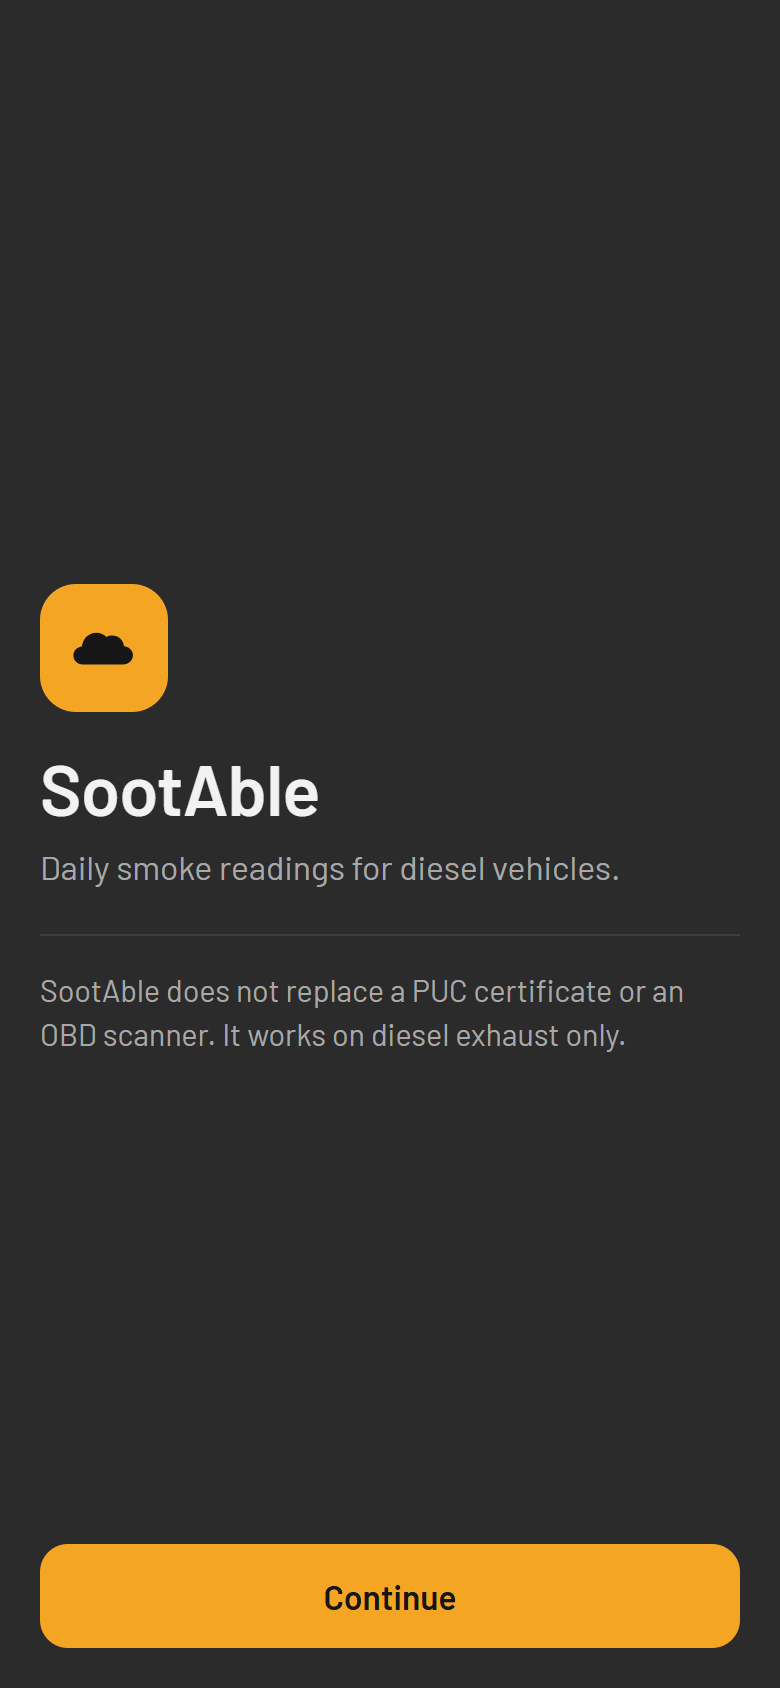
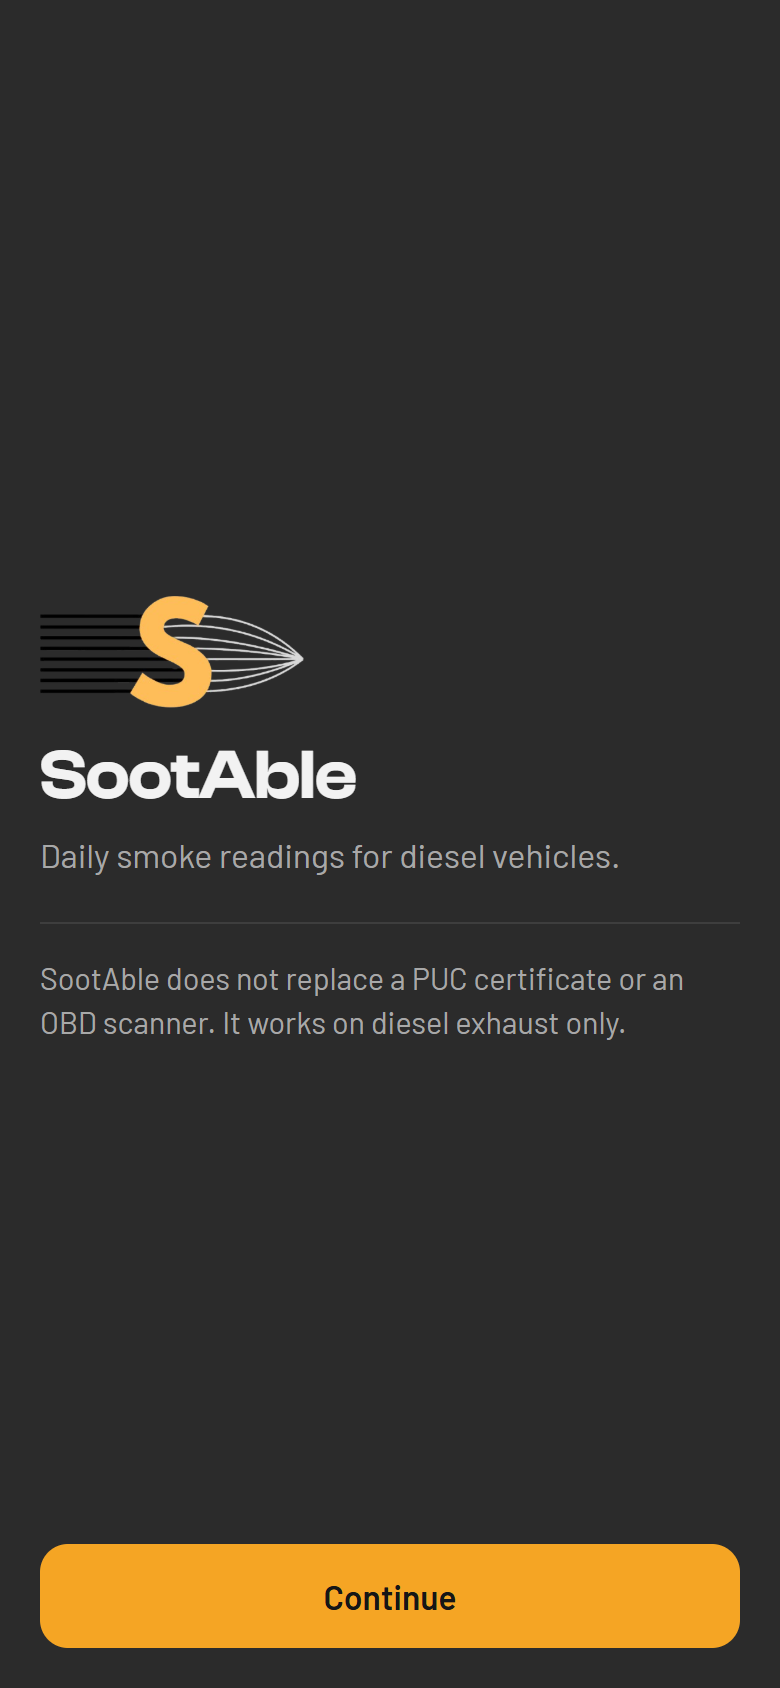
Rewrite README, refresh screenshots, publish hardware demo to GitHub Pages

Changed region(s): [[0.0308, 0.3389, 0.8, 0.5237], [0.0308, 0.5545, 0.8615, 0.6161]]

diff --git a/hardware/index.html b/hardware/index.html
@@ -1,7 +1,7 @@
 <!doctype html><html><head><meta charset=utf8><meta name=viewport content="width=device-width,initial-scale=1,viewport-fit=cover"><style>:root{color-scheme:light;box-sizing:border-box;padding-top:env(safe-area-inset-top,0px);padding-bottom:env(safe-area-inset-bottom,0px)}html{scroll-padding-top:env(safe-area-inset-top,0px)}body{margin:0;padding:0;font:14px -apple-system,BlinkMacSystemFont,sans-serif;background:#fff;color:#000}img{max-width:100%}[hidden]:not([hidden=until-found i]){display:none!important}</style></head><body>
 <title>SootAble Meter - 3D Simulator</title>
 <meta name="claude:viewport-fit-sides" content="cover">
-<link rel="icon" href="/static/favicon.png" type="image/png">
+<link rel="icon" href="favicon.png" type="image/png">
 <link rel="stylesheet" href="https://fonts.googleapis.com/css2?family=Archivo+Narrow:wght@600;700&family=IBM+Plex+Sans:wght@400;500&family=IBM+Plex+Mono:wght@400;500&display=swap">
 <style>
 /* Layout: big 3D viewport of the team's own CAD model, controls and readouts beside it */

diff --git a/README.md b/README.md
@@ -1,73 +1,82 @@
 # SootAble
 
-**A daily smoke reading for your diesel engine, taken automatically.** SootAble is a phone app for a low-cost (about Rs. 500) diesel exhaust
-opacity meter. The meter measures how much infrared light the exhaust absorbs; the app turns that into the smoke level the
-law uses, tracks it day by day, and warns the owner while a worn injector or clogged filter is still a small problem,
-months before the next PUC test.
+SootAble is a phone app for a small diesel exhaust meter (target cost about Rs. 500). Once a day the meter takes a smoke
+reading on its own and sends it to the phone. The app shows the number against the legal limit, keeps up to 1000 days of
+history so slow wear shows up as a trend, and warns the owner while a worn injector or clogged filter is still a small
+repair, months before the next PUC test.
 
-C://hacks 2026 · App & Web Engineering · Advanced · **UN SDG 13: Climate Action**
+Built for C://hacks 2026, App & Web Engineering (Advanced), **UN SDG 13: Climate Action**. Black carbon from badly
+maintained diesel engines is a short-lived climate pollutant, and catching a degrading engine early is one of the cheapest
+ways to cut it.
 
 <p>
-<img src="docs/screenshots/02-vehicle-type.png" width="170" alt="Setup: vehicle type">
-<img src="docs/screenshots/03-find-meter.png" width="170" alt="Pairing: meters in range">
-<img src="docs/screenshots/05-home.png" width="170" alt="Home: reading, scale and metrics">
-<img src="docs/screenshots/06-trend.png" width="170" alt="Outlook and trend">
+<img src="docs/screenshots/04-home.png" width="190" alt="Home screen">
+<img src="docs/screenshots/05-trend.png" width="190" alt="Outlook and trend">
+<img src="docs/screenshots/03-find-meter.png" width="190" alt="Pairing a meter">
+<img src="docs/screenshots/06-history.png" width="190" alt="History">
 </p>
 
-## Run it
+## Try it
 
-Needs Python 3.10 or newer.
+There are two things to look at. They are separate: the app needs Python running, the hardware demo is just a web page.
+
+### 1. The hardware demo (nothing to install)
+
+A 3D model of the meter, built from our CAD design. Drag to orbit, change how much smoke is in the exhaust, and watch the
+infrared sensor reading, opacity and k change, with the phone's view and the ESP32 serial log beside it.
+
+**Live: https://ayushvyk.github.io/C-Hacks/**
+
+You can also open [hardware/index.html](hardware/index.html) straight from a clone, or start the app and go to
+`/hardware/`. The 3D library is bundled in the folder; only the fonts come from the internet.
+
+![Hardware demo](docs/screenshots/07-hardware-demo.png)
+
+### 2. The app
+
+You need Python 3.10 or newer.
 
 ```
+git clone https://github.com/AyushVyk/C-Hacks.git
+cd C-Hacks
 python -m venv .venv
 .venv\Scripts\activate            # macOS / Linux: source .venv/bin/activate
 pip install -r requirements.txt
 python main.py
 ```
 
-Open **http://127.0.0.1:8000**. It is a phone app, so it shows inside a phone frame on a laptop.
+Then open **http://127.0.0.1:8000**. It is a phone app, so on a laptop it sits inside a phone-sized frame.
+
+The first run walks through adding a vehicle and finding its meter. There is no physical meter yet, so the search finds
+three virtual ones; tap **No meter? Use demo data** to load a few months of example readings instead (a healthy engine or
+one that is wearing out). Everything is stored locally in `data/sootable.db`; nothing leaves the machine.
+
 To try it on a real phone on the same Wi-Fi, start it with `SOOTABLE_HOST=0.0.0.0` (PowerShell:
-`$env:SOOTABLE_HOST = "0.0.0.0"`); it prints the address to open, and *Add to Home screen* installs it on Android and
-iPhone. How it would become a store app is in [docs/LAUNCH.md](docs/LAUNCH.md).
+`$env:SOOTABLE_HOST = "0.0.0.0"`), open the address it prints, and use *Add to Home screen*.
 
-**Built with:** Python 3, FastAPI, Uvicorn and SQLite for the logic and storage; plain HTML, CSS and JavaScript for the
-phone UI (no framework, no build step).
+## What the app does
 
-## A two-minute tour
-
-1. **First run.** Vehicle type and name, then **find and connect the vehicle's meter**: the app searches, lists
-   the meters in range, and connects to the one you pick. A vehicle needs its own meter before a reading can be taken, and
-   there is no account. Because no physical meter exists yet, the search finds three demo meters; **No meter? Use demo
-   data** loads months of example readings instead.
-2. **Home.** The smoke level against the legal limit (2.45 m⁻¹) on a ruler scale, four metric tiles (today, 7-day average,
-   highest, change since baseline), an **Outlook** (when the limit would be reached at the current pace), and a trend chart
-   you can touch (30D / 1Y / All) with the within-limit range shaded.
-3. **Readings arrive by themselves.** The meter records one reading a day on its own; the app collects them when it opens, every few minutes while open, and on pull-down. Nobody takes a reading by hand.
-4. **Several vehicles, one meter each.** Tap the vehicle name at the top to add another. Adding a vehicle goes straight to
-   connecting its meter, with the same two choices as the first car: **search over Bluetooth** (the list shows every meter in
-   range and which car it is on; connecting one that is on another car moves it, after syncing what it had stored for that
-   car) or **use demo data** (loads example readings for just that car and leaves the others alone). A vehicle without a
-   meter says so and cannot take readings.
-5. **History, Alerts, Settings.** Alerts only appear when the status changes. Settings shows the vehicle's meter (firmware
-   and sampling chamber, read from the meter's own handshake) and can change or forget it.
-
-**Developer tools (not part of the product).** Open `/#dev`, or tap the version line in Settings five times. They run the
-test scenarios (a 1000-day wear-out, bit errors on the link, a dropped connection, a meter reboot) and show the raw
-Bluetooth bytes as they are decoded.
+- **Home** shows today's smoke level on a ruler scale with the legal limit (2.45 m⁻¹) marked, four small tiles (today,
+  7-day average, highest, change since baseline), an outlook ("projected to reach the limit around ...") and a trend chart.
+- **Readings arrive by themselves.** The meter records once a day. The app collects them when it opens, every few minutes
+  while it is open, and on pull-down. Nobody takes a reading by hand.
+- **Alerts** only appear when the status changes (good, close to limit, over limit), and a single odd reading never raises
+  one.
+- **Several vehicles, one meter each.** Tap the vehicle name at the top to add another; each has its own readings,
+  baseline, alerts and meter.
+- **History and Settings.** Readings by day, CSV export, delete-all, and the connected meter's details.
+- **Works like a phone app.** Installable on Android and iPhone, offline-capable, handles safe areas and the Android back
+  gesture, and remembers where you were after a reload.
+- **Developer tools** (hidden, not part of the product): open `/#dev`, or tap the version line in Settings five times.
+  They run test scenarios such as a 1000-day wear-out or a dropped connection and show the raw Bluetooth bytes.
 
 ## About the hardware
 
-The meter exists as a CAD design and has not been built. To show the whole data path anyway, `sootable/device_sim.py` is
-a **virtual device**: it behaves like the Arduino Nano + HM-10 firmware and talks to the app only through the real byte
-frames of the protocol (sync byte, CRC-8, 20-byte Bluetooth chunks). The app's parser, CRC check and sync logic cannot
-tell it from hardware; connecting a real meter means replacing one transport class. The pairing screens (scan, choose,
-connect, handshake) run against it exactly as they would against a real meter's advertisement. **The readings in the demo
-are generated, not measured, and the meters found when searching are virtual ones.**
-
-**Hardware demo.** A 3D simulator built from the team's own CAD model of the meter: drag to orbit, change the smoke in the
-exhaust, and watch the infrared sensor reading, opacity and k change, with the phone's view and the ESP32 serial log
-beside it. Start the app and open **http://127.0.0.1:8000/hardware** (or the Developer section in Settings). The file is
-[hardware/index.html](hardware/index.html); its 3D library is bundled, so it works offline.
+The meter exists as a CAD design and has not been built. To show the whole data path anyway, `sootable/device_sim.py` is a
+virtual device that behaves like the planned Arduino Nano + HM-10 firmware and talks to the app only through the real
+byte frames of the protocol (sync byte, CRC-8, 20-byte Bluetooth chunks). The app's parser, CRC check and sync logic
+cannot tell it from hardware, so connecting a real meter means replacing one transport class. **The readings in the demo
+are generated, not measured.**
 
 ```
 virtual device ──bytes──▶ simulated Bluetooth link ──20-byte chunks──▶ phone session (parse, CRC, sync)
@@ -75,18 +84,25 @@ virtual device ──bytes──▶ simulated Bluetooth link ──20-byte chunk
               phone UI (HTML/JS) ◀── JSON ── FastAPI ◀── analytics ◀── SQLite (local)
 ```
 
-## What is in this repo
+The meter shines an infrared LED through the exhaust, then flushes with clean air and measures again as a reference. The
+app turns the two readings into the opacity coefficient **k = −(1 / L) · ln(i / i0)**, the quantity the legal limit is
+written in.
+
+## How it is built
+
+Python 3, FastAPI and SQLite for the logic and storage; plain HTML, CSS and JavaScript for the UI (no framework, no build
+step, charts drawn as inline SVG). The maths and alert rules are pure functions with no I/O, so they can move unchanged
+into a native app.
 
 | Path | What it is |
 |---|---|
 | `main.py` | Starts the app |
-| `sootable/` | The app: protocol (`crc8.py`, `frame.py`), maths and rules (`k.py`, `daily.py`, `alerts.py`), storage (`store.py`), sync (`session.py`), simulator (`device_sim.py`, `link.py`, `scenarios.py`), analytics (`engine.py`), API (`server.py`) |
-| `web/` | The phone UI: `index.html`, `style.css`, `app.js`, service worker, fonts, logo and icons, manifest |
-| `hardware/` | The 3D simulator of the meter's CAD model (served at `/hardware`) |
+| `sootable/` | The backend: protocol (`crc8.py`, `frame.py`), maths and rules (`k.py`, `daily.py`, `alerts.py`), storage (`store.py`), sync (`session.py`), simulator (`device_sim.py`, `link.py`, `scenarios.py`), analytics (`engine.py`), API (`server.py`) |
+| `web/` | The phone UI: `index.html`, `style.css`, `app.js`, service worker, fonts, logo and icons |
+| `hardware/` | The 3D hardware demo (also published to GitHub Pages) |
 | `tests/` | 94 automated tests |
-| `docs/PROJECT.md` | Problem, solution, features, tech, challenges, future improvements |
+| `docs/PROJECT.md` | Problem, solution, challenges, limitations, future work |
 | `docs/LAUNCH.md` | How it runs on iOS and Android today and the route to the App Store and Google Play |
-| `docs/screenshots/` | Screens of the app |
 
 ## Tests
 
@@ -95,19 +111,23 @@ pip install -r requirements-dev.txt
 python -m pytest
 ```
 
-They cover the byte-exact protocol examples, frame parsing under splits, merges and every single-bit corruption, the
-maths and the legal-limit boundary, the alert rules, every simulator scenario, storage limits, multiple vehicles and a
-database upgrade, pairing (scan, connect, move, forget, one meter per vehicle, and no readings without a meter), and the
-HTTP API.
+They cover the byte-exact protocol examples, frame parsing under splits, merges and every single-bit corruption, the maths
+and the legal-limit boundary, the alert rules, the simulator scenarios, storage limits, multiple vehicles and database
+upgrades, pairing, and the HTTP API.
+
+## Limits
+
+This is a prototype. The meter is not built, so no real reading has been taken, and the infrared LED will need calibrating
+against a reference opacimeter. Alert thresholds are placeholders until there is real data. The 2.45 m⁻¹ limit is for one
+vehicle class. SootAble does not replace a PUC certificate, and works on diesel exhaust only. More in
+[docs/PROJECT.md](docs/PROJECT.md).
 
 ## Credits and AI-usage disclosure
 
-Generative AI was used, as the rules require us to disclose. We used **Claude (Anthropic) through Claude Code** to help
-plan the project, write the code, tests and documentation, and review the design against our build specification. The
-product idea, the specification, the choice of SDG and the design direction are the team's.
+Generative AI was used, as the rules require us to disclose: we used Claude (Anthropic) through Claude Code to help plan
+the project and write the code, tests and documentation. The product idea, the specification, the choice of SDG and the
+design direction are the team's.
 
-Open-source software: FastAPI, Uvicorn, Pydantic, SQLite, pytest, HTTPX. Fonts (SIL Open Font License, bundled for offline
-use): Barlow, Barlow Condensed, IBM Plex Mono. The legal limit (2.45 m⁻¹, 65 Hartridge units) is the CMVR limit named in
-our specification.
-
-SootAble does not replace a PUC certificate or an OBD scanner, and works on diesel exhaust only.
+Open-source software: FastAPI, Uvicorn, Pydantic, SQLite, pytest, HTTPX, three.js. Fonts, bundled for offline use: Barlow,
+Barlow Condensed and IBM Plex Mono (SIL Open Font License), Clash Display (Fontshare Free Font License). The legal limit
+(2.45 m⁻¹, 65 Hartridge units) is the CMVR limit named in our specification.
